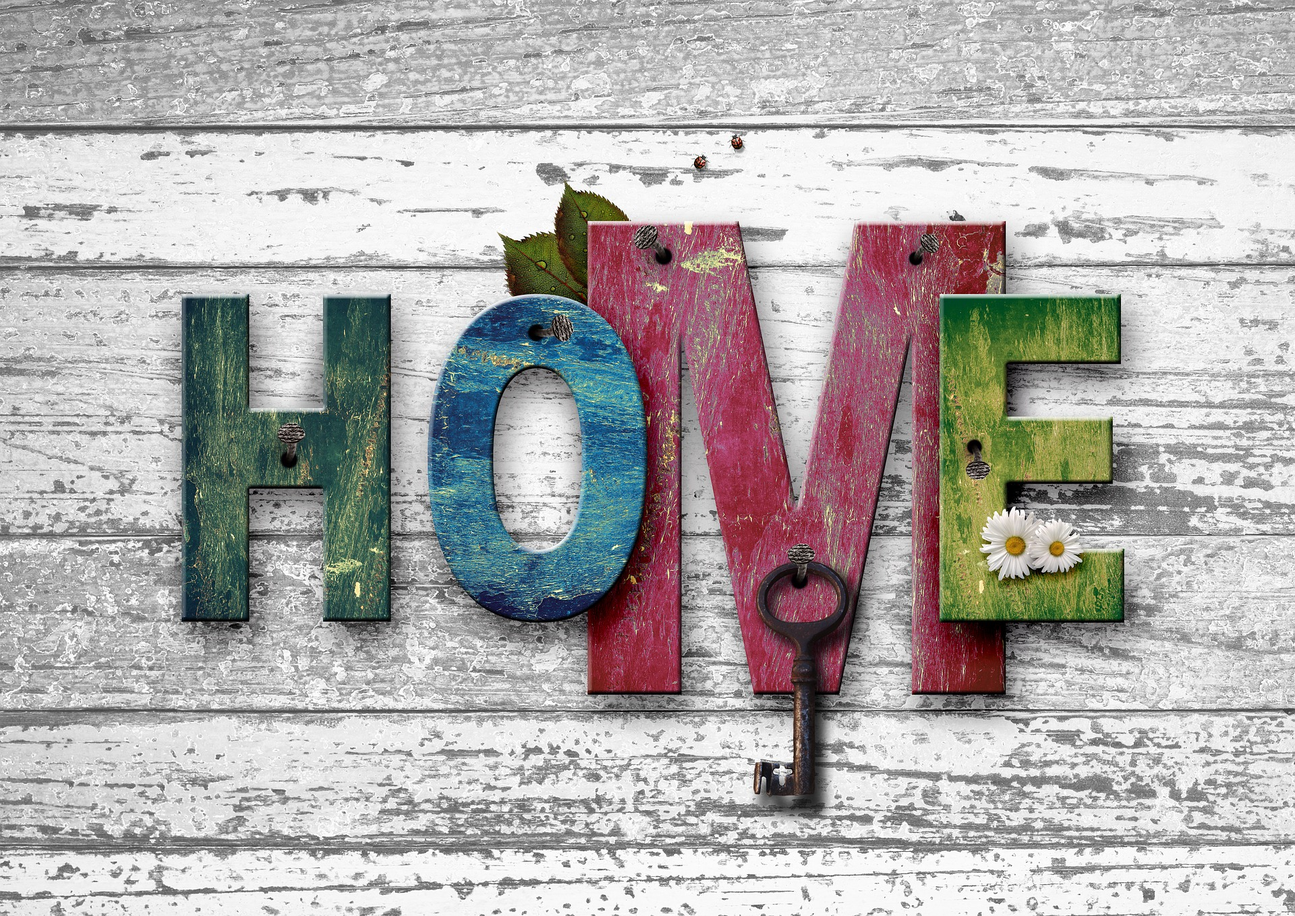
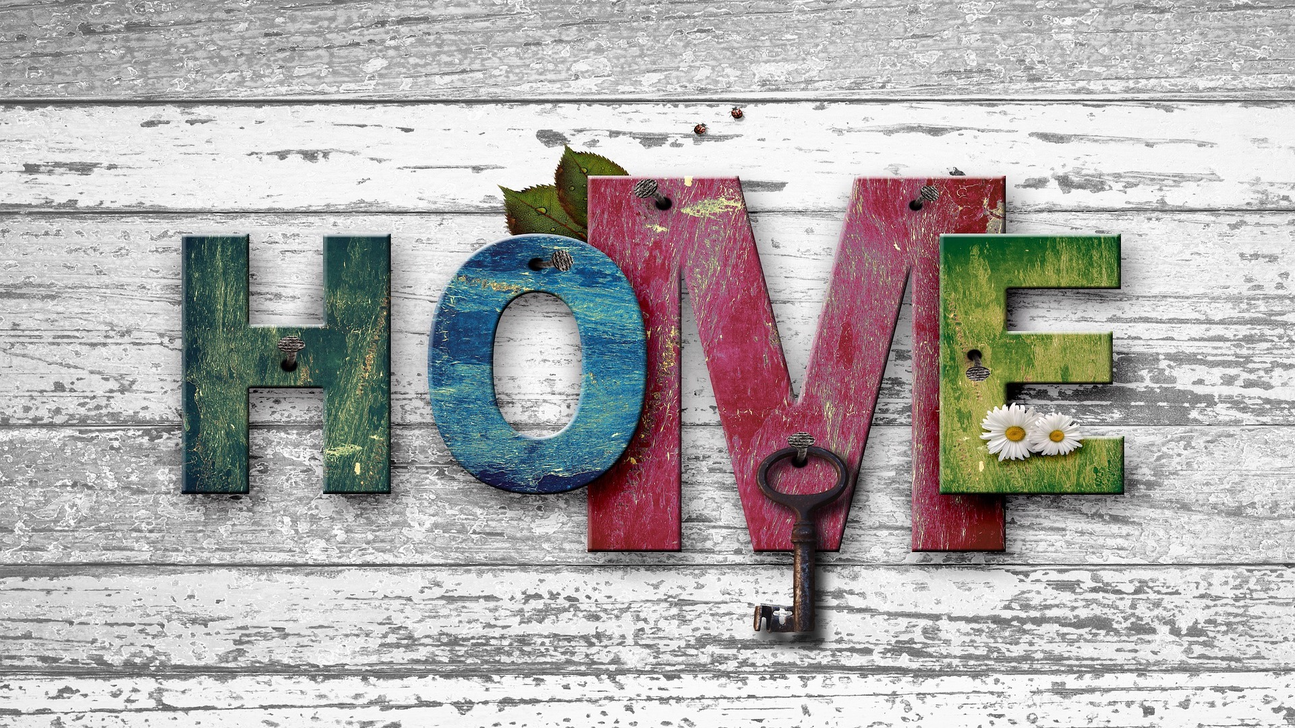
home page

diff --git a/index.html b/index.html
@@ -77,7 +77,7 @@
 
     <!-- ***************** Welcome Area Start ***************** -->
     <section class="welcome_area" id="home">
-        <div class="single_slide" style="background-image: url(img/core-img/home-2406416_1920.jpg);">
+        <div class="single_slide" style="background-image: url(img/core-img/key-3087898_1920.jpg);">
             <div class="slide_text">
                 <div class="table">
                     <div class="table_cell">
@@ -219,8 +219,8 @@
         </div>
         <!-- Single Fact Start  -->
         <div class="cool_fact_text wow fadeInUp" data-wow-delay=".4s">
-            <h3><span class="counter">31</span>+</h3>
-            <h5>Team Advisor</h5>
+            <h3><span class="counter">7</span>+</h3>
+            <h5>Team Advisors</h5>
         </div>
         <!-- Single Fact Start  -->
         <div class="cool_fact_text wow fadeInUp" data-wow-delay=".6s">
@@ -229,8 +229,8 @@
         </div>
         <!-- Single Fact Start  -->
         <div class="cool_fact_text wow fadeInUp" data-wow-delay=".8s">
-            <h3><span class="counter">764</span>+</h3>
-            <h5>Project Completed</h5>
+            <h3><span class="counter">123</span>+</h3>
+            <h5>Homes Sold</h5>
         </div>
         <!-- Single Fact Start  -->
         <div class="cool_fact_text wow fadeInUp" data-wow-delay="1s">
@@ -1530,11 +1530,11 @@
                             </div>-->
                             <div class="col-xs-12">
                                 <div class="social_links_area">
-                                    <a href="#"><i class="fa fa-facebook" aria-hidden="true"></i></a>
+                                    <a href="https://www.facebook.com/mschirico"><i class="fa fa-facebook" aria-hidden="true"></i></a>
                                     <a href="#"><i class="fa fa-twitter" aria-hidden="true"></i></a>
                                     <a href="#"><i class="fa fa-youtube" aria-hidden="true"></i></a>
                                     <a href="#"><i class="fa fa-google-plus" aria-hidden="true"></i></a>
-                                    <a href="#"><i class="fa fa-linkedin" aria-hidden="true"></i></a>
+                                    <a href="https://www.linkedin.com/in/lisa-chirico-48045130"><i class="fa fa-linkedin" aria-hidden="true"></i></a>
                                 </div>
                             </div>
                         </div>

diff --git a/style.css b/style.css
@@ -229,7 +229,7 @@
     div#preloader {
         overflow: hidden;
         background-color: #fff;
-        background-image: url(img/core-img/home-2406416_1920.jpg);
+        background-image: url(img/core-img/key-3087898_1920.jpg);
         background-repeat: no-repeat;
         background-position: center center;
         height: 100%;
@@ -879,11 +879,11 @@
     }
     
     .cool_facts_area .cool_fact_text:nth-child(4) {
-        background-color: #033668;
+        background-color: #e2df1b;
     }
     
     .cool_facts_area .cool_fact_text:last-child {
-        background-color: #ee5e1b;
+        background-color: #2e22e0;
     }
     
     .cool_fact_text h3 {
